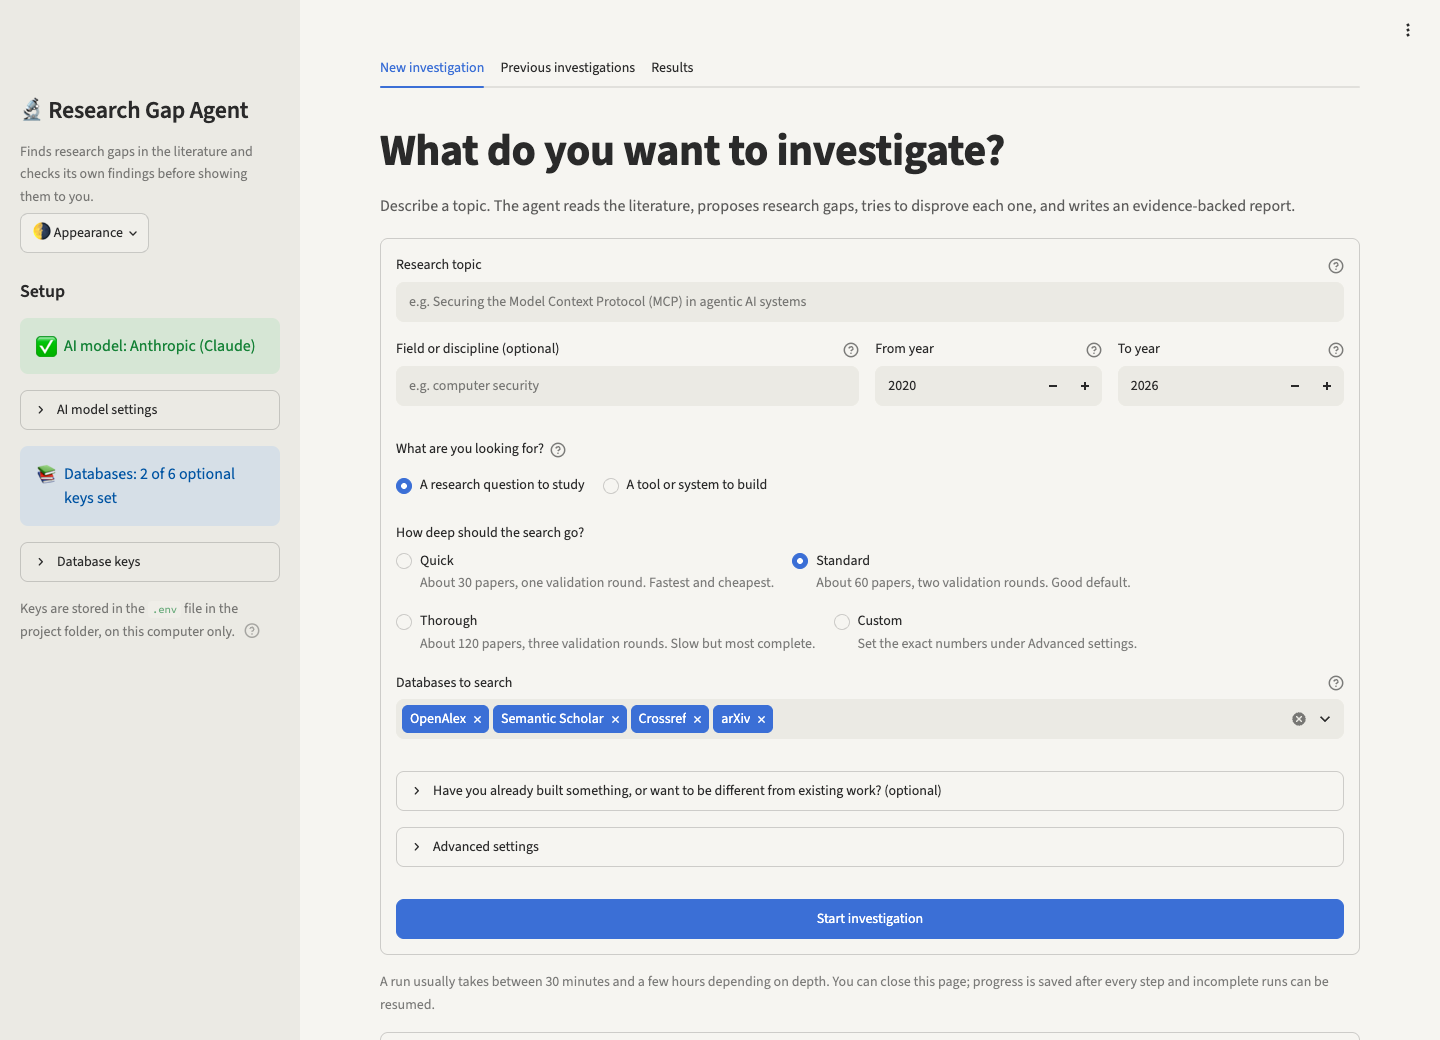
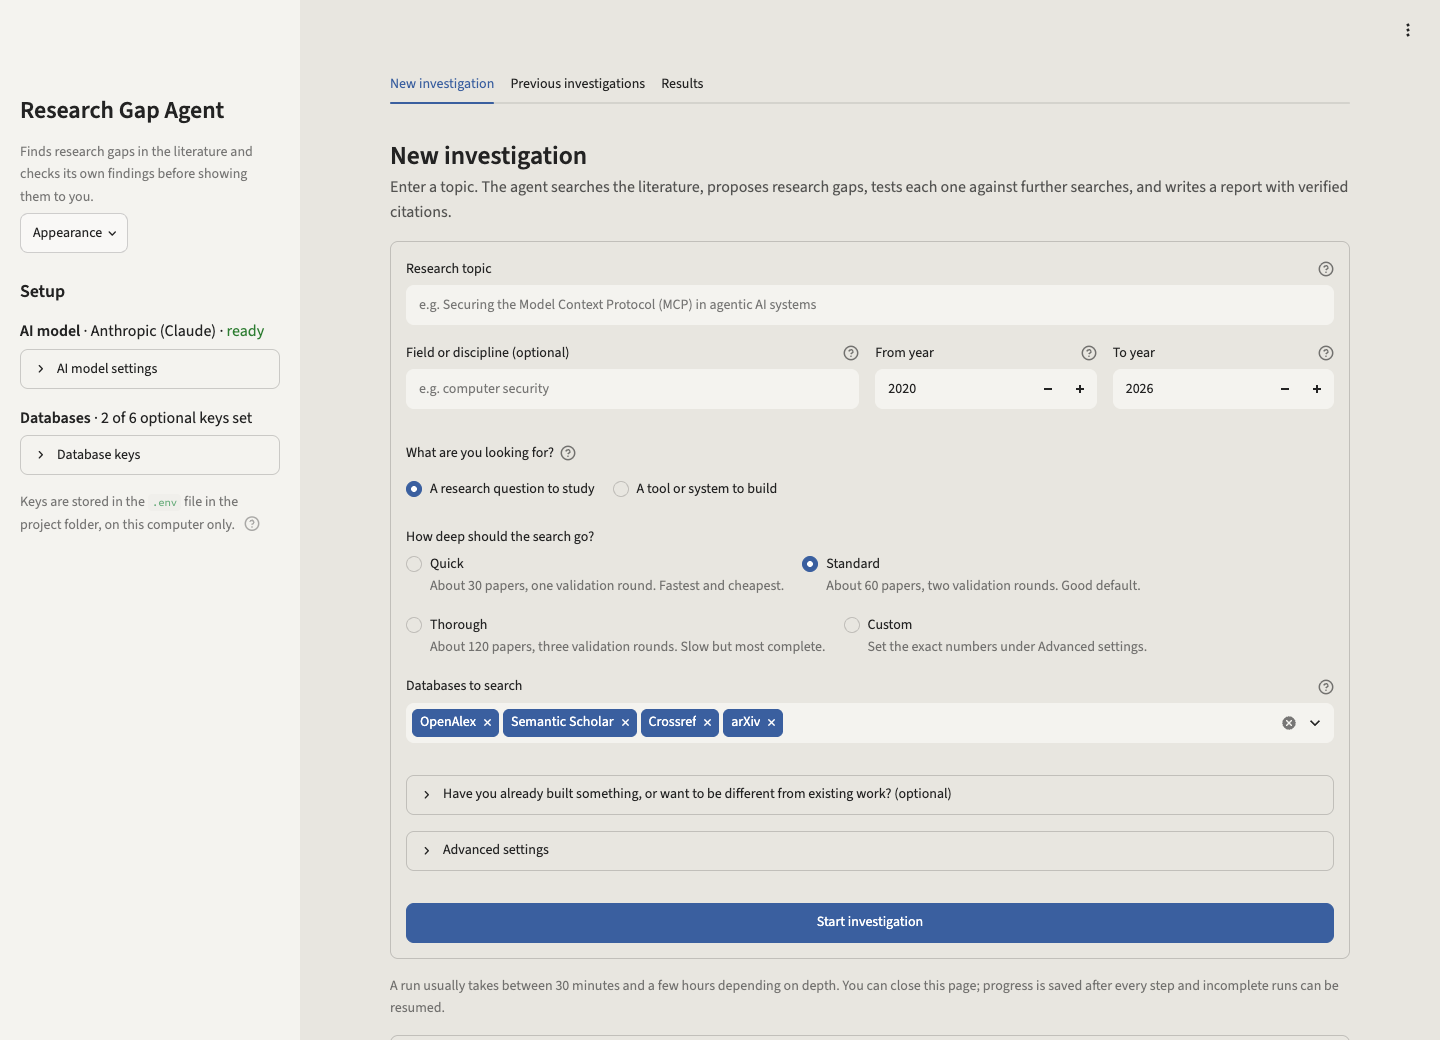
Plainer interface: paper-toned page, no emoji or coloured badges, smaller headings

diff --git a/app.py b/app.py
@@ -61,13 +61,13 @@ STAGE_INFO: dict[str, tuple[str, str]] = {
     "report": ("Writing the report", "Rendering the final report and exports"),
 }
 
-STATUS_INFO: dict[str, tuple[str, str, str]] = {  # value -> (label, explanation, colour)
-    "limited_evidence_found": ("Open gap", "Counter-searches found little or no work that fills this gap", "#16A34A"),
-    "preliminary_evidence": ("Early work only", "Only preliminary studies exist so far", "#16A34A"),
-    "conflicting_evidence": ("Conflicting findings", "Existing studies disagree with each other", "#D97706"),
-    "partially_addressed": ("Partly addressed", "Some aspects are already covered; the gap was narrowed", "#D97706"),
-    "cannot_validate": ("Could not verify", "The validation searches failed, so this is unconfirmed", "#6B7280"),
-    "addressed": ("Already addressed", "Existing work already covers this", "#DC2626"),
+STATUS_INFO: dict[str, tuple[str, str, str]] = {  # value -> (label, explanation, css class)
+    "limited_evidence_found": ("Open gap", "Counter-searches found little or no work that fills this gap", "rga-ok"),
+    "preliminary_evidence": ("Early work only", "Only preliminary studies exist so far", "rga-ok"),
+    "conflicting_evidence": ("Conflicting findings", "Existing studies disagree with each other", "rga-warn"),
+    "partially_addressed": ("Partly addressed", "Some aspects are already covered; the gap was narrowed", "rga-warn"),
+    "cannot_validate": ("Could not verify", "The validation searches failed, so this is unconfirmed", "rga-grey"),
+    "addressed": ("Already addressed", "Existing work already covers this", "rga-bad"),
 }
 CATEGORY_LABELS = {
     "knowledge": "Knowledge gap", "methodological": "Method gap", "empirical": "Missing experiments",
@@ -132,19 +132,16 @@ FORM_KEYS = ["f_topic", "f_discipline", "f_from", "f_to", "f_method", "f_priorit
 
 st.markdown("""
 <style>
-  .block-container { padding-top: 2rem; max-width: 1180px; }
-  h1 { font-weight: 700; letter-spacing: -0.01em; }
-  .rga-hero { opacity: 0.75; font-size: 1.05rem; margin-top: -0.4rem; margin-bottom: 1.2rem; }
-  .rga-badge { display: inline-block; padding: 2px 10px; border-radius: 999px; font-size: 0.78rem; font-weight: 600;
-               color: white; margin-right: 6px; vertical-align: middle; }
-  .rga-pill { display: inline-block; padding: 2px 9px; border-radius: 999px; font-size: 0.76rem;
-              background: rgba(37, 99, 235, 0.14); color: inherit; margin-right: 6px; vertical-align: middle; }
+  .block-container { padding-top: 3rem; max-width: 1120px; }
+  [data-testid="stMainBlockContainer"] h1 { font-size: 1.6rem !important; font-weight: 600 !important; padding-bottom: 0.2rem; }
+  [data-testid="stMainBlockContainer"] h2 { font-size: 1.25rem !important; font-weight: 600 !important; }
+  [data-testid="stMainBlockContainer"] h3 { font-size: 1.05rem !important; font-weight: 600 !important; }
+  .rga-hero { opacity: 0.75; margin-top: 0; margin-bottom: 1rem; }
   .rga-muted { opacity: 0.65; font-size: 0.86rem; }
-  .rga-rank { font-size: 1.6rem; font-weight: 700; color: #3B82F6; line-height: 1; }
-  div[data-testid="stMetric"] { background: rgba(127, 127, 127, 0.10); border-radius: 10px; padding: 0.8rem 1rem; }
+  .rga-status { font-weight: 600; }
+  .rga-ok { color: #2E7D32; } .rga-warn { color: #B26A00; } .rga-bad { color: #B3261E; } .rga-grey { opacity: 0.6; }
+  div[data-testid="stMetric"] { border-left: 2px solid rgba(127,127,127,0.35); padding-left: 0.8rem; }
   [data-testid="stSidebar"] .stMarkdown p { margin-bottom: 0.3rem; }
-  [data-testid="stSidebar"] [data-testid="stVerticalBlockBorderWrapper"] { padding: 0.35rem 0.6rem 0.2rem 0.6rem; }
-  [data-testid="stSidebar"] [data-testid="stVerticalBlockBorderWrapper"] p { margin-bottom: 0.15rem; }
 </style>
 """, unsafe_allow_html=True)
 
@@ -190,13 +187,9 @@ def provider_ready(name: str) -> tuple[bool, str]:
     return True, "ready"
 
 
-def badge(text: str, colour: str) -> str:
-    return f'<span class="rga-badge" style="background:{colour}">{text}</span>'
-
-
-def status_badge(value: str) -> str:
-    label, _, colour = STATUS_INFO.get(value, (value.replace("_", " "), "", "#6B7280"))
-    return badge(label, colour)
+def status_text(value: str) -> str:
+    label, expl, css = STATUS_INFO.get(value, (value.replace("_", " "), "", "rga-grey"))
+    return f'<span class="rga-status {css}" title="{expl}">{label}</span>'
 
 
 def fmt_duration(seconds: float) -> str:
@@ -365,13 +358,13 @@ def run_status(rid: str, s: RunState) -> str:
     running = {j["run_id"] for j in st.session_state.get("jobs", []) if j["status"] == "running"}
     n = len(s.stages_completed)
     if rid in running:
-        return "🟢 Running"
+        return "Running"
     if n == len(STAGES):
         gaps = len([v for v in s.validated_gaps if not v.rejected])
-        return f"✅ Complete · {gaps} gap{'s' if gaps != 1 else ''}"
+        return f"Complete · {gaps} gap{'s' if gaps != 1 else ''}"
     if n == 0:
-        return "⚪ Not started"
-    return f"⏸ {n} of {len(STAGES)} steps"
+        return "Not started"
+    return f"{n} of {len(STAGES)} steps"
 
 
 def credential_form(form_key: str, fields: list[tuple[str, str, bool, str]], button: str, extra: dict | None = None) -> None:
@@ -398,13 +391,13 @@ if st.session_state.get("prefill_run"):
     _sp = settings().runs_dir / _rid / "state.json"
     if _sp.exists():
         prefill_form_from(RunState.model_validate(json.loads(_sp.read_text())))
-        st.toast("Settings copied into the New investigation form.", icon="✅")
+        st.toast("Settings copied into the New investigation form.")
 
 # ----------------------------------------------------------------------------- sidebar: setup
 with st.sidebar:
-    st.title("🔬 Research Gap Agent")
+    st.title("Research Gap Agent")
     st.caption("Finds research gaps in the literature and checks its own findings before showing them to you.")
-    with st.popover("🌗 Appearance", help="Switch between light and dark mode. 'System' follows your device setting."):
+    with st.popover("Appearance", help="Switch between light and dark mode. 'System' follows your device setting."):
         t1, t2, t3 = st.columns(3)
         if t1.button("Light", key="theme_light", width="stretch"):
             apply_theme("Light")
@@ -416,10 +409,8 @@ with st.sidebar:
     st.subheader("Setup")
     detected = detect_provider()
     ready, why = provider_ready(detected)
-    if ready:
-        st.success(f"AI model: {provider_label(detected)}", icon="✅")
-    else:
-        st.warning(f"AI model: {provider_label(detected)} has {why}", icon="⚠")
+    st.markdown(f"**AI model** · {provider_label(detected)} · "
+                f"<span class='{'rga-ok' if ready else 'rga-warn'}'>{'ready' if ready else why}</span>", unsafe_allow_html=True)
     with st.expander("AI model settings", expanded=not ready):
         chosen_provider = st.selectbox("Provider", list(PROVIDERS), index=list(PROVIDERS).index(detected), key="sb_provider",
                                        format_func=provider_label,
@@ -437,13 +428,14 @@ with st.sidebar:
             (st.success if ok_conn else st.error)(msg)
 
     n_keys = sum(1 for env, *_ in SOURCE_FIELDS if os.environ.get(env))
-    st.info(f"Databases: {n_keys} of {len(SOURCE_FIELDS)} optional keys set", icon="📚")
+    st.markdown(f"**Databases** · {n_keys} of {len(SOURCE_FIELDS)} optional keys set")
     with st.expander("Database keys"):
         st.caption("All databases work without keys. Your email and an OpenAlex key make searches faster and more reliable.")
         for env, label, _, _ in SOURCE_FIELDS:
             val = os.environ.get(env)
-            st.markdown(f"<span title='Stored as {env}'>{'✅' if val else '▫'} {label}"
-                        f"{'' if val else ' <span class=rga-muted>(not set)</span>'}</span>", unsafe_allow_html=True)
+            st.markdown(f"<span title='Stored as {env}'>{label} · "
+                        f"<span class='{'rga-ok' if val else 'rga-grey'}'>{'set' if val else 'not set'}</span></span>",
+                        unsafe_allow_html=True)
         credential_form("source_cred_form", SOURCE_FIELDS, "Save source keys")
         if not os.environ.get("OPENALEX_API_KEY"):
             mail = os.environ.get("RGA_MAILTO", "")
@@ -459,9 +451,9 @@ with st.sidebar:
         st.subheader("Running now")
         for j in st.session_state["jobs"]:
             drain(j)
-            icon = {"running": "🟢", "done": "✅", "stopped": "⏹"}.get(j["status"], "⚠")
             stage = STAGE_INFO.get(j["stage"], (j["stage"], ""))[0]
-            st.markdown(f"{icon} **{j['label']}**  \n<span class='rga-muted'>{stage}</span>", unsafe_allow_html=True)
+            st.markdown(f"**{j['label']}**  \n<span class='rga-muted'>{j['status'].replace('_', ' ')} · {stage}</span>",
+                        unsafe_allow_html=True)
 
 selected_run = st.session_state.get("selected_run")
 tab_new, tab_runs, tab_view = st.tabs(["New investigation", "Previous investigations", "Results"])
@@ -474,12 +466,12 @@ with tab_new:
                  "f_goal": "research", "f_existing": ""}.items():
         st.session_state.setdefault(k, v)
 
-    st.title("What do you want to investigate?")
-    st.markdown('<p class="rga-hero">Describe a topic. The agent reads the literature, proposes research gaps, '
-                'tries to disprove each one, and writes an evidence-backed report.</p>', unsafe_allow_html=True)
+    st.title("New investigation")
+    st.markdown('<p class="rga-hero">Enter a topic. The agent searches the literature, proposes research gaps, '
+                'tests each one against further searches, and writes a report with verified citations.</p>', unsafe_allow_html=True)
     if not ready:
-        st.warning(f"**One thing before your first run:** {provider_label(chosen_provider)} has {why}. "
-                   "Open **AI model settings** in the sidebar, paste your key and click **Save provider keys**.", icon="🔑")
+        st.warning(f"{provider_label(chosen_provider)} has {why}. "
+                   "Open **AI model settings** in the sidebar, paste your key and click **Save provider keys**.")
 
     with st.form("run_form"):
         topic = st.text_input("Research topic", key="f_topic",
@@ -567,8 +559,8 @@ with tab_new:
         st.session_state["job"] = job
 
     if not jobs:
-        with st.expander("How does it work, and what will I get?"):
-            st.markdown("**The agent works in twelve steps, and you can watch each one:**")
+        with st.expander("About this tool"):
+            st.markdown("**The twelve steps of a run**")
             for i, (sid, (name, desc)) in enumerate(STAGE_INFO.items(), 1):
                 st.markdown(f"{i}. **{name}.** {desc}.")
             st.markdown("""
@@ -591,7 +583,7 @@ flags retracted papers, and tries to disprove each gap before reporting it. If a
         else:
             st.subheader(job["label"])
         if job["status"] == "running" and not job["stop"].is_set():
-            if st.button("⏹ Stop after the current step", help="Finishes the model call in flight, saves progress, and stops. "
+            if st.button("Stop after the current step", help="Finishes the model call in flight, saves progress, and stops. "
                                                              "You can resume later from the Results tab."):
                 job["stop"].set()
                 job["log"].append(f"{time.strftime('%H:%M:%S')} stop requested; finishing the current step…")
@@ -619,11 +611,11 @@ flags retracted papers, and tries to disprove each gap before reporting it. If a
             time.sleep(1.0)
         if job["status"] == "done":
             bar.progress(1.0, text="Finished")
-            head.success(f"Report ready after {fmt_duration(time.time() - job['started'])}. Open the **Results** tab to read it.", icon="🎉")
+            head.success(f"Report ready after {fmt_duration(time.time() - job['started'])}. Open the **Results** tab to read it.")
             selected_run = job["run_id"]
         elif job["status"] == "stopped":
             bar.empty()
-            head.warning("Stopped at a checkpoint. Open the run in the **Results** tab and click **Resume** to continue later.", icon="⏹")
+            head.warning("Stopped at a checkpoint. Open the run in the **Results** tab and click **Resume** to continue later.")
         elif job["status"] == "config_error":
             bar.empty()
             head.error("**The model rejected the call because of account configuration.**\n\n" + job["config_error"]
@@ -641,11 +633,11 @@ with tab_runs:
     runs = list_runs(settings().runs_dir)
     st.title("Previous investigations")
     if not runs:
-        st.info("Nothing here yet. Every investigation you start is saved automatically and will show up on this page.", icon="💡")
+        st.info("No saved investigations yet. Every run is saved automatically and listed here.")
     else:
         complete_n = sum(1 for _, s in runs if len(s.stages_completed) == len(STAGES))
-        st.markdown(f'<p class="rga-hero">{len(runs)} saved · {complete_n} complete · {len(runs) - complete_n} incomplete. '
-                    'Open one to read its results, run it again with changes, or delete it.</p>', unsafe_allow_html=True)
+        st.markdown(f'<p class="rga-hero">{len(runs)} saved · {complete_n} complete · {len(runs) - complete_n} incomplete</p>',
+                    unsafe_allow_html=True)
         f1, f2 = st.columns([3, 1])
         query = f1.text_input("Search", key="run_filter", placeholder="Search by topic…", label_visibility="collapsed")
         show = f2.selectbox("Show", ["All", "Complete", "Incomplete"], key="run_show", label_visibility="collapsed")
@@ -661,23 +653,23 @@ with tab_runs:
             is_open = selected_run == rid
             o = s.options
             with st.container(border=True):
-                info, b_open, b_again, b_del = st.columns([6, 1.2, 1.6, 0.7])
+                info, b_open, b_again, b_del = st.columns([6, 1.1, 1.3, 1.1])
                 info.markdown(f"**{o.topic}**  \n<span class='rga-muted'>{s.created_at.strftime('%d %b %Y, %H:%M')} · "
                               f"{run_status(rid, s)} · {len(s.papers)} papers · {provider_label(o.provider)}</span>",
                               unsafe_allow_html=True)
-                b_open.button("Opened ✓" if is_open else "Open", key=f"open_{rid}", width="stretch", disabled=is_open,
+                b_open.button("Opened" if is_open else "Open", key=f"open_{rid}", width="stretch", disabled=is_open,
                               on_click=_select_run, args=(rid,), help="Show this run in the Results tab")
-                b_again.button("↺ Run again", key=f"again_{rid}", width="stretch", on_click=_reuse_settings, args=(rid,),
+                b_again.button("Run again", key=f"again_{rid}", width="stretch", on_click=_reuse_settings, args=(rid,),
                                help="Copy this run's topic and settings into the New investigation form")
                 if st.session_state.get("confirm_delete") == rid:
-                    st.warning("Delete this run and all its files? This cannot be undone.", icon="🗑")
+                    st.warning("Delete this run and all its files? This cannot be undone.")
                     d1, d2, _ = st.columns([1, 1, 6])
                     if d1.button("Delete", key=f"confirm_{rid}", type="primary", width="stretch"):
                         delete_run(rid)
                         st.rerun()
                     d2.button("Keep", key=f"keep_{rid}", width="stretch", on_click=_ask_delete, args=(None,))
                 else:
-                    b_del.button("🗑", key=f"del_{rid}", width="stretch", on_click=_ask_delete, args=(rid,), help="Delete this run")
+                    b_del.button("Delete", key=f"del_{rid}", width="stretch", on_click=_ask_delete, args=(rid,))
         if limit < len(shown):
             st.button(f"Show all {len(shown)} runs", key="show_all_runs_btn",
                       on_click=lambda: st.session_state.update(show_all_runs=True))
@@ -687,7 +679,7 @@ with tab_view:
     run_id = selected_run or (st.session_state.get("job") or {}).get("run_id")
     if not run_id:
         st.title("Results")
-        st.info("Nothing to show yet. Start an investigation in the first tab, or open one from **Previous investigations**.", icon="💡")
+        st.info("Nothing to show yet. Start an investigation, or open one from **Previous investigations**.")
     else:
         run_dir = settings().runs_dir / run_id
         sp = run_dir / "state.json"
@@ -707,9 +699,9 @@ with tab_view:
             if not complete:
                 next_stage = next((s for s in STAGES if s not in done), None)
                 st.warning(f"This run is incomplete: {len(done)} of {len(STAGES)} steps finished. "
-                           + (f"Next step: **{STAGE_INFO[next_stage][0]}**." if next_stage else ""), icon="⏸")
+                           + (f"Next step: **{STAGE_INFO[next_stage][0]}**." if next_stage else ""))
                 st.progress(len(done) / len(STAGES))
-                if st.button("▶ Resume this run", type="primary"):
+                if st.button("Resume this run", type="primary"):
                     start_job(None, run_id, st.session_state.get("f_provider"), st.session_state.get("f_model"),
                               st.session_state.get("f_base_url") or None)
                     st.rerun()
@@ -726,16 +718,16 @@ with tab_view:
             if report.exists():
                 d1, d2, d3 = st.columns([1, 1, 2])
                 if html_path.exists():
-                    d1.download_button("⬇ Download report", data=html_path.read_bytes(), file_name=f"{run_id}_report.html",
+                    d1.download_button("Download report", data=html_path.read_bytes(), file_name=f"{run_id}_report.html",
                                        type="primary", width="stretch", help="Self-contained web page; opens in any browser.")
-                d2.download_button("⬇ Report as Markdown", data=report.read_bytes(), file_name=f"{run_id}_report.md",
+                d2.download_button("Report as Markdown", data=report.read_bytes(), file_name=f"{run_id}_report.md",
                                    width="stretch")
                 with d3.popover("More files", width="stretch"):
                     st.caption("Reference files import directly into Zotero, Mendeley and EndNote.")
                     for name in EXPORT_FILES:
                         path = run_dir / name
                         if path.exists() and name not in ("report.html", "report.md"):
-                            st.download_button(f"⬇ {EXPORT_LABELS[name]}", data=path.read_bytes(), file_name=f"{run_id}_{name}",
+                            st.download_button(EXPORT_LABELS[name], data=path.read_bytes(), file_name=f"{run_id}_{name}",
                                                width="stretch")
 
             if state.validated_gaps:
@@ -751,7 +743,7 @@ with tab_view:
                     rec = state.recommendation
                     if rec:
                         with st.container(border=True):
-                            st.markdown(f"{badge('Recommended next step', '#2563EB')} **{rec.proposed_title}**", unsafe_allow_html=True)
+                            st.markdown(f"**Recommended direction**  \n{rec.proposed_title}")
                             st.markdown(rec.problem_statement)
                             with st.expander("Why this one, and how to approach it"):
                                 st.markdown(f"**Motivation.** {rec.motivation}\n\n**Aim.** {rec.aim}\n\n**Method.** {rec.methodology}")
@@ -759,23 +751,19 @@ with tab_view:
                                     st.markdown("**Research questions**\n" + "\n".join(f"- {q}" for q in rec.research_questions))
                                 if rec.expected_contributions:
                                     st.markdown("**Expected contributions**\n" + "\n".join(f"- {c}" for c in rec.expected_contributions))
-                    st.markdown(f"#### {len(ordered)} research gap{'s' if len(ordered) != 1 else ''} survived validation")
-                    st.caption("Ranked by evidence strength, novelty, feasibility and impact. Hover over a status for what it means.")
+                    st.markdown(f"### Validated gaps ({len(ordered)})")
+                    st.caption("Ranked by evidence strength, novelty, feasibility and impact. Hover over a status for its meaning.")
                     for v in ordered:
                         r = rank_of.get(v.gap.id)
                         with st.container(border=True):
-                            left, right = st.columns([1, 14])
-                            left.markdown(f"<div class='rga-rank'>#{r.rank if r else '–'}</div>", unsafe_allow_html=True)
-                            _, expl, _ = STATUS_INFO.get(v.status.value, ("", "", ""))
-                            right.markdown(
-                                f"**{v.gap.title}**  \n"
-                                f"<span title='{expl}'>{status_badge(v.status.value)}</span>"
-                                f"<span class='rga-pill'>{CATEGORY_LABELS.get(v.gap.category.value, v.gap.category.value)}</span>"
-                                f"<span class='rga-pill'>confidence: {v.confidence}</span>"
-                                f"<span class='rga-pill'>feasibility: {v.feasibility.overall}</span>",
+                            st.markdown(
+                                f"**{r.rank if r else '–'}. {v.gap.title}**  \n"
+                                f"<span class='rga-muted'>{status_text(v.status.value)} · "
+                                f"{CATEGORY_LABELS.get(v.gap.category.value, v.gap.category.value)} · "
+                                f"confidence {v.confidence} · feasibility {v.feasibility.overall}</span>",
                                 unsafe_allow_html=True)
-                            right.markdown(f"**What is missing.** {v.gap.what_is_missing}")
-                            with right.expander("Details and evidence"):
+                            st.markdown(f"**What is missing.** {v.gap.what_is_missing}")
+                            with st.expander("Details and evidence"):
                                 st.markdown(f"**What is already established.** {v.gap.what_is_established}")
                                 st.markdown(f"**Why it matters.** {v.gap.why_it_matters}")
                                 st.markdown(f"**Possible contribution.** {v.gap.potential_contribution}")
@@ -795,7 +783,7 @@ with tab_view:
                     if rejected:
                         with st.expander(f"{len(rejected)} candidate gap{'s' if len(rejected) != 1 else ''} rejected because existing work already covers them"):
                             for v in rejected:
-                                st.markdown(f"{status_badge(v.status.value)} **{v.gap.title}**  \n{v.rejection_reason or ''}",
+                                st.markdown(f"**{v.gap.title}** · {status_text(v.status.value)}  \n{v.rejection_reason or ''}",
                                             unsafe_allow_html=True)
                                 if v.counter_evidence:
                                     st.markdown("\n".join(

diff --git a/tests/test_gui.py b/tests/test_gui.py
@@ -58,7 +58,7 @@ def test_sidebar_saves_keys_to_env_file(tmp_path, monkeypatch):
     save.click().run()
     assert not at.exception
     assert "S2_API_KEY=s2-secret" in (tmp_path / ".env").read_text()
-    assert any("✅ Semantic Scholar key" in m.value for m in at.sidebar.markdown)
+    assert any("Semantic Scholar key" in m.value and ">set<" in m.value for m in at.sidebar.markdown)
 
 
 def test_provider_selector_and_key_form(tmp_path, monkeypatch):
